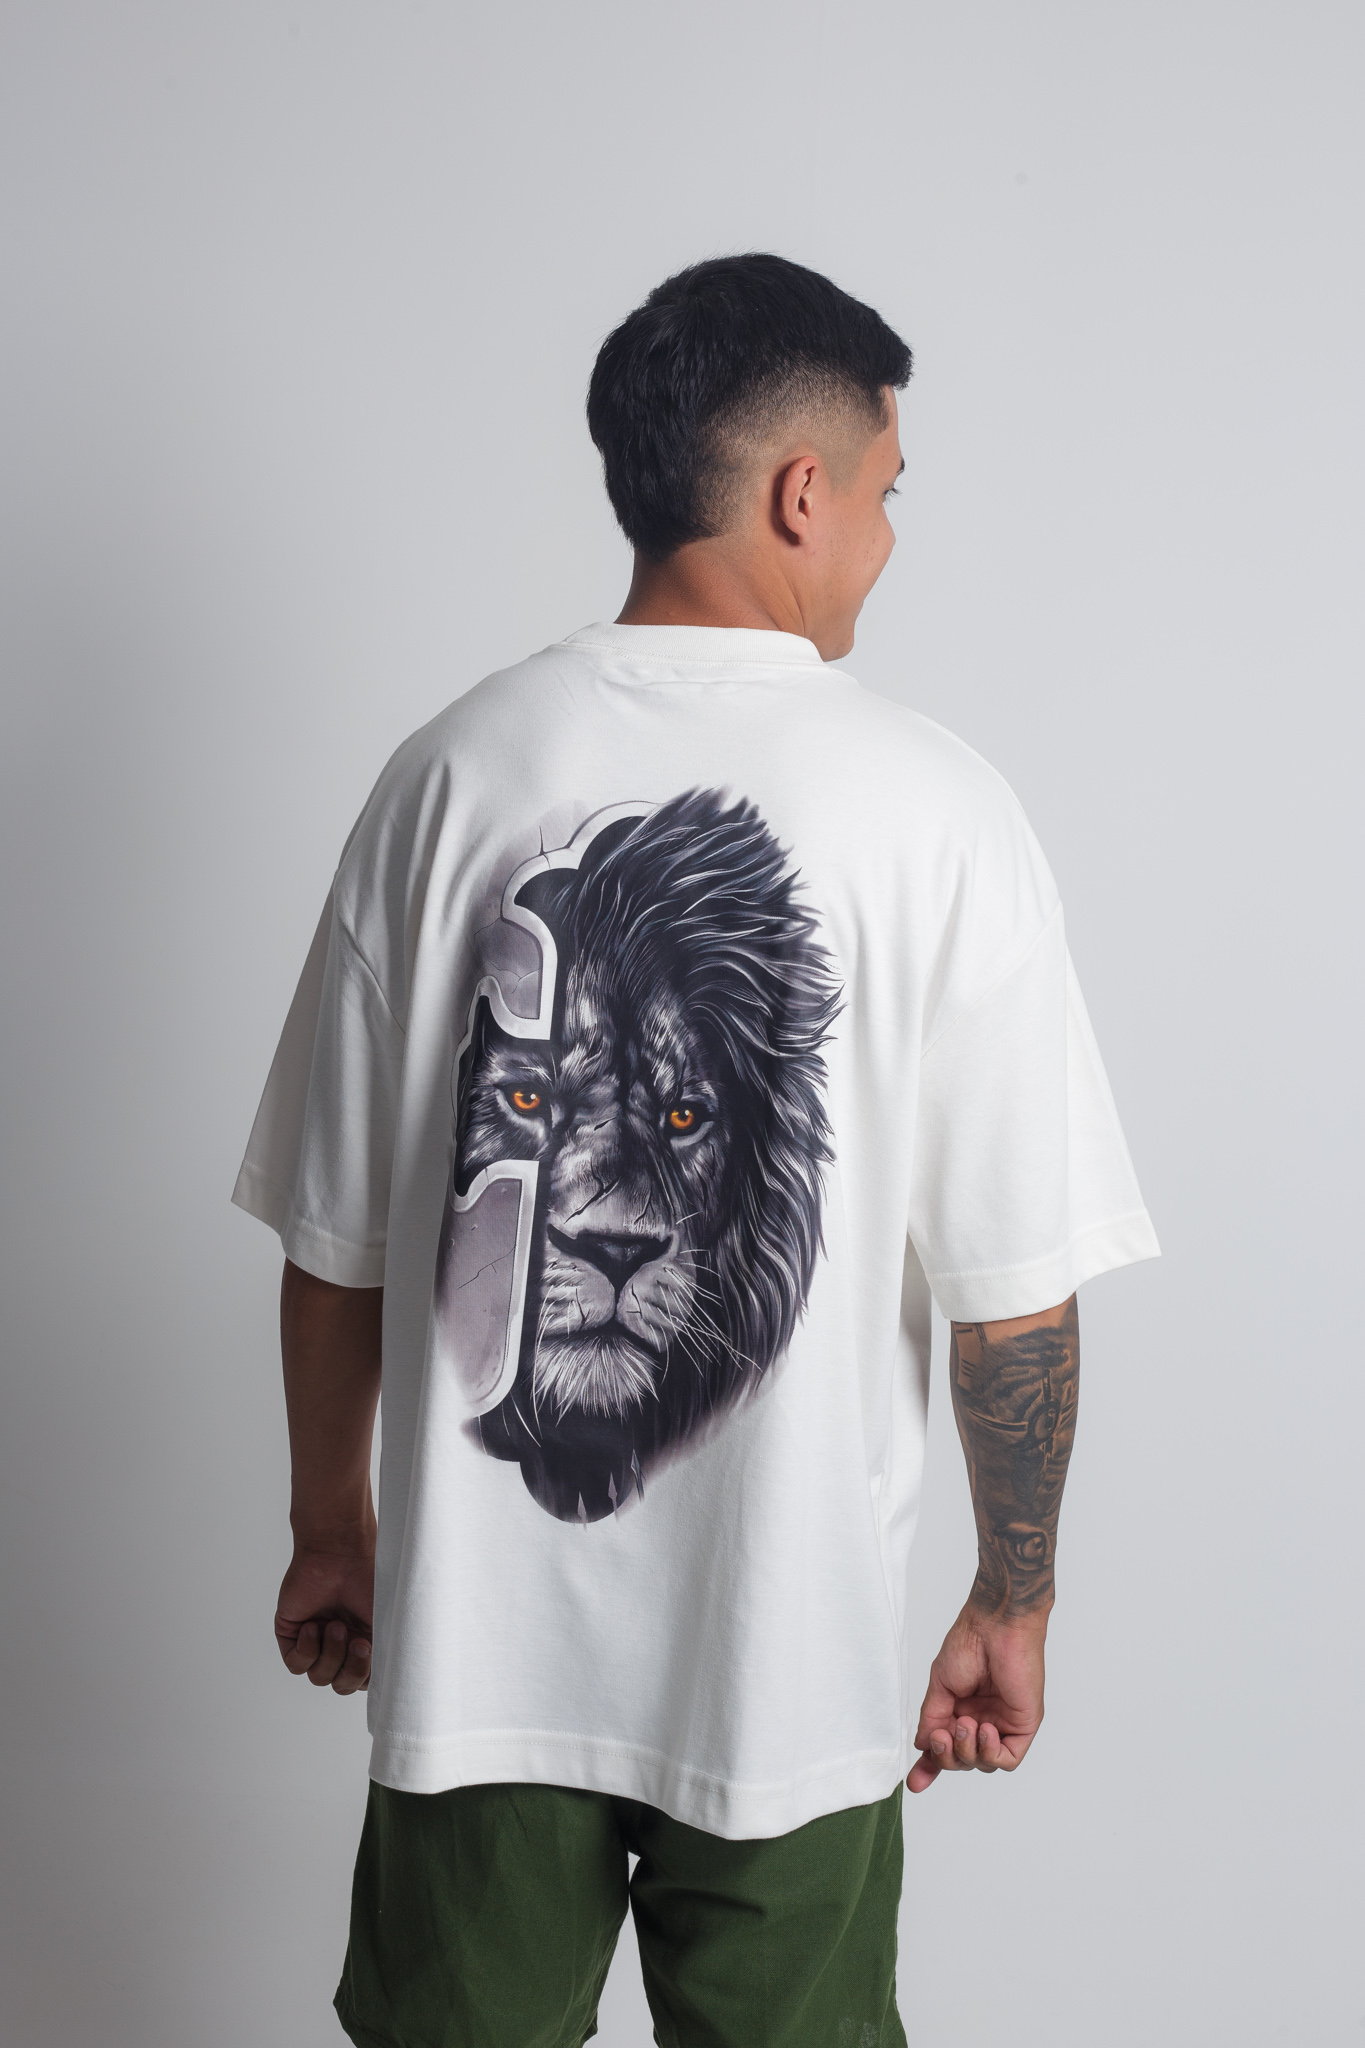
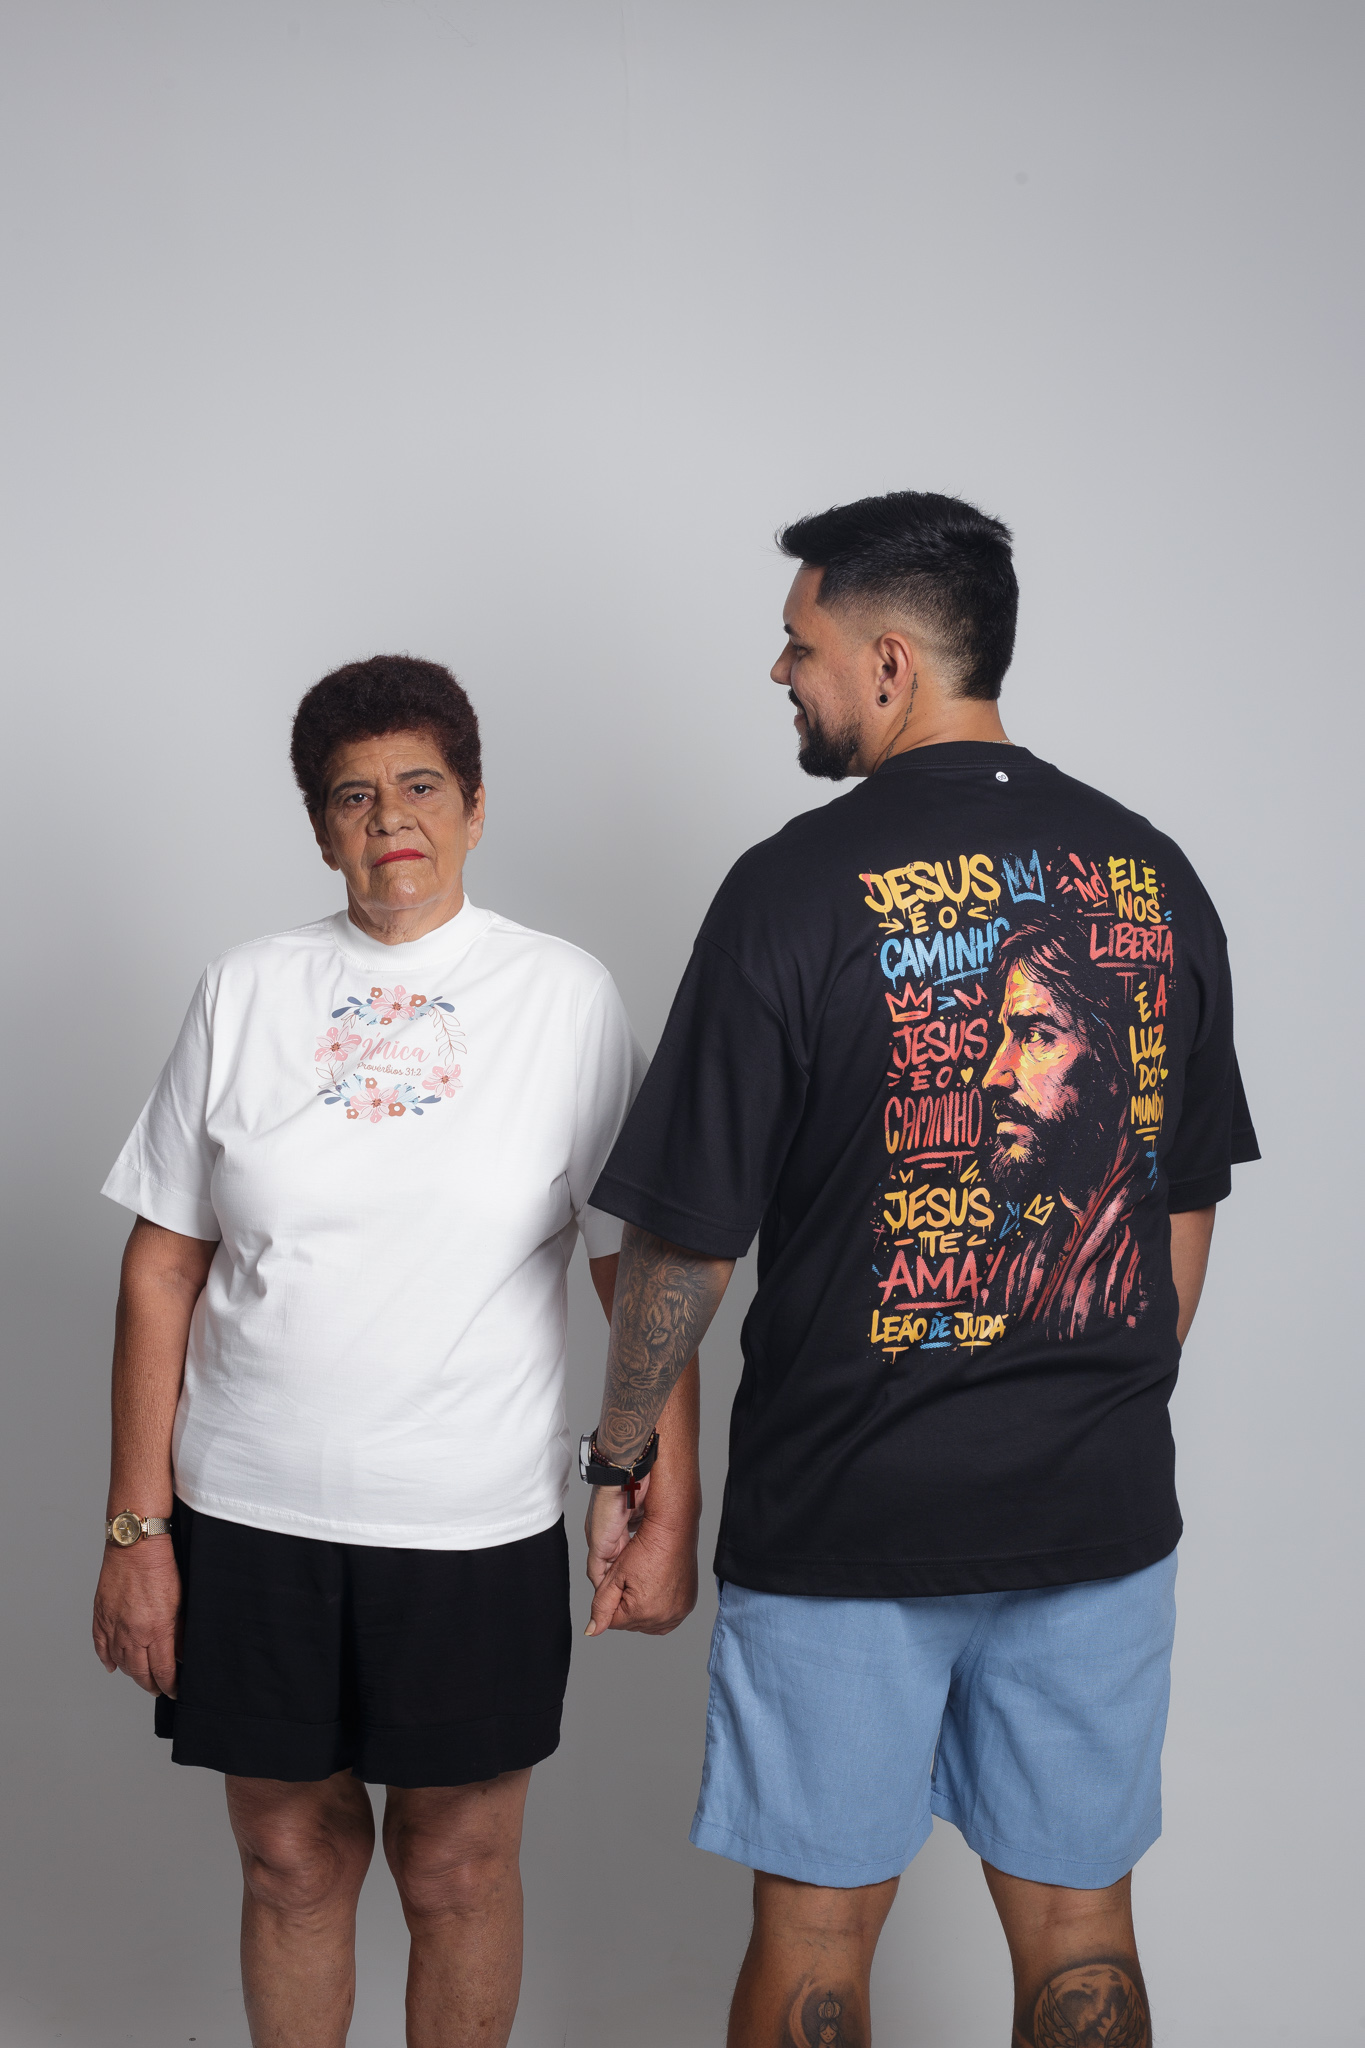
Atualização paginas CONTATOS e PRODUTOS para a versão final

diff --git a/style.css b/style.css
@@ -1,3 +1,7 @@
+i {
+  display: inline-block; /* Garante que ele apareça */
+}
+
 /* --- Reset e Variáveis Globais --- */
 * {
     margin: 0;
@@ -293,45 +297,7 @@ body {
     min-height: 100vh;
 }
 
-/* Container único solicitado */
-.contatos-container {
-    width: 100%;
-    max-width: 400px;
-    margin: 20px;
-    background-color: #ffffff;
-    border-radius: 16px;
-    box-shadow: 0 8px 30px rgba(0, 0, 0, 0.08);
-    padding: 35px 25px;
-    text-align: center;
-    border: 1px solid #eef2f5;
-}
-
-.header-perfil {
-    margin-bottom: 25px;
-}
-
-.avatar-placeholder {
-    width: 80px;
-    height: 80px;
-    background: linear-gradient(135deg, #4f46e5, #06b6d4);
-    border-radius: 50%;
-    margin: 0 auto 15px auto;
-    border: 3px solid #ffffff;
-    box-shadow: 0 4px 10px rgba(0,0,0,0.1);
-}
-
-.titulo {
-    font-size: 24px;
-    font-weight: 700;
-    color: #1e293b;
-    margin-bottom: 6px;
-}
-
-.subtitulo {
-    font-size: 14px;
-    color: #64748b;
-}
-
+/* CONTATOS*/
 .links-grupo {
     display: flex;
     flex-direction: column;
@@ -339,9 +305,9 @@ body {
 }
 
 .btn-link {
-    display: block;
-    text-decoration: none;
+    display: inline;
     padding: 14px;
+    margin: 5px 0;
     border-radius: 10px;
     font-size: 15px;
     font-weight: 600;
@@ -364,6 +330,12 @@ body {
     box-shadow: 0 4px 12px rgba(220, 39, 67, 0.2);
 }
 
+.btn-rota {
+    background-color: #ffffff;
+    color: #000000;
+    box-shadow: 0 4px 12px rgba(0, 0, 0, 0.15);
+}
+
 .btn-tiktok {
     background-color: #010101;
     box-shadow: 0 4px 12px rgba(0, 0, 0, 0.15);
@@ -372,10 +344,4 @@ body {
 .btn-google {
     background-color: #4285F4;
     box-shadow: 0 4px 12px rgba(66, 133, 244, 0.2);
-}
-
-.footer-creditos {
-    margin-top: 25px;
-    font-size: 12px;
-    color: #94a3b8;
 }

diff --git a/paginas/produtos.html b/paginas/produtos.html
@@ -55,16 +55,15 @@
 </style>
 
 <div class="conteudo">
-    <br>
-    <h1>NOSSOS PRODUTOS</h1>
-    <p>Role a página para ver o efeito parallax na imagem abaixo.</p>
+    <h1>FÉ | ESTILO | ATITTTUDE</h1>
+    <p>Coleções completas pensada para quem não abre mão de qualidade e estilo</p>
 </div>
 
-<div class="parallax bg-parallax" style="background-image: url('../imagens/fundos/produtos-parallax.jpg');"></div>
+<div class="parallax bg-parallax" style="background-image: url('../imagens/fundos/produtos-parallax.gif');"></div>
 
 <div class="conteudo">
     <h1>OVERSIZED</h1>
-    <p>Role a página para ver o efeito parallax na imagem abaixo.</p>
+    <p>Estilo urbano, corte amplo e o máximo de conforto. A escolha ideal para quem curte um visual moderno e despojado</p>
 </div>
 
 <div class="parallax" style="background-image: url('../imagens/fundos/oversized-parallax.jpg');">
@@ -75,38 +74,38 @@
 </div>
 
 <div class="conteudo">
-    <h1>CASUAL</h1>
-    <p>O fundo fica fixo enquanto o texto rola por cima, criando profundidade.</p>
+    <h1>MASCULINO</h1>
+    <p>Do básico essencial às principais tendências. Roupas versáteis que combinam praticidade, conforto e elegância</p>
 </div>
 
-<div class="parallax bg-parallax" style="background-image: url('C');">
-     <a href="https://api.whatsapp.com/send?phone=55018996793282&text=Ol%C3%A1%2C%20gostaria%20de%20saber%20sobre%20as%20op%C3%A7%C3%B5es%20de%20*CASUAL*" target="_blank" class="btn btn-primary btn-lg rounded-3 fw-bold d-flex align-items-center justify-content-center mt-3 shadow-sm"
-    class="btn-cta nav-link">VER OPÇÕES CASUAL<i class="bi bi-arrow-right"></i></a>
+<div class="parallax" style="background-image: url('../imagens/fundos/masculino-parallax.jpg');">
+    <div class="container-botao">
+        <a href="https://api.whatsapp.com/send?phone=55018996793282&text=Ol%C3%A1%2C%20gostaria%20de%20saber%20sobre%20as%20op%C3%A7%C3%B5es%20*MASCULINAS*"
+    target="_blank" class="meu-botao";">VER OPÇÕES MASCULINAS<i class="bi bi-arrow-right"></i></a>
+    </div>
 </div>
 
 <div class="conteudo">
-    <h1>FEMININA</h1>
-    <p>Role a página para ver o efeito parallax na imagem abaixo.</p>
-    <a href="https://api.whatsapp.com/send?phone=55018996793282&text=Ol%C3%A1%2C%20gostaria%20de%20saber%20sobre%20as%20op%C3%A7%C3%B5es%20de%20*MODA%20FEMININA*" target="_blank" class="btn btn-primary btn-lg rounded-3 fw-bold d-flex align-items-center justify-content-center mt-3 shadow-sm"
-    class="btn-streetwear">VER OPÇÕES FEMININAS<i class="bi bi-arrow-right"></i></a>
+    <h1>FEMININO</h1>
+    <p>Peças que exaltam a sua força e autenticidade. Design contemporâneo e versatilidade para looks marcantes</p>
 </div>
 
-<div class="parallax bg-parallax" style="background-image: url('caminho-da-sua-imagem3.jpg');"></div>
-
-<div class="conteudo">
-    <h1>ESPORTIVO</h1>
-    <p>O fundo fica fixo enquanto o texto rola por cima, criando profundidade.</p>
-    
-</div>
-
-<div class="parallax bg-parallax" style="background-image: url('caminho-da-sua-imagem3.jpg');">
-    <a href="https://api.whatsapp.com/send?phone=55018996793282&text=Ol%C3%A1%2C%20gostaria%20de%20saber%20sobre%20as%20op%C3%A7%C3%B5es%20de%20*MODA%20ESPORTIVA*" target="_blank" class="btn btn-primary btn-lg rounded-3 fw-bold d-flex align-items-center justify-content-center mt-3 shadow-sm"
-    class="btn-streetwear">VER OPÇÕES ESPORTIVO<i class="bi bi-arrow-right"></i></a>
+<div class="parallax" style="background-image: url('../imagens/fundos/feminino-parallax.jpg');">
+    <div class="container-botao">
+        <a href="https://api.whatsapp.com/send?phone=55018996793282&text=Ol%C3%A1%2C%20gostaria%20de%20saber%20sobre%20as%20op%C3%A7%C3%B5es%20*FEMININAS*"
+    target="_blank" class="meu-botao";">VER OPÇÕES FEMININAS<i class="bi bi-arrow-right"></i></a>
+    </div>
 </div>
 
 <div class="conteudo">
     <h1>NOVIDADES</h1>
-    <p>O fundo fica fixo enquanto o texto rola por cima, criando profundidade.</p>
-    <a href="https://api.whatsapp.com/send?phone=55018996793282&text=Ol%C3%A1%2C%20gostaria%20de%20saber%20sobre%20as%20*NOVIDADES*" target="_blank" class="btn btn-primary btn-lg rounded-3 fw-bold d-flex align-items-center justify-content-center mt-3 shadow-sm" 
-    class="btn-streetwear">CONHECER NOVIDADES<i class="bi bi-arrow-right"></i></a>
+    <p>Fique por dentro de tudo!</p>
 </div>
+
+<div class="parallax" style="background-image: url('../imagens/fundos/novidade-parallax.jpeg');">
+    <div class="container-botao">
+        <a href="https://api.whatsapp.com/send?phone=55018996793282&text=Ol%C3%A1%2C%20gostaria%20de%20saber%20sobre%20as%20*NOVIDADES*"
+    target="_blank" class="meu-botao";">VER NOVIDADES<i class="bi bi-arrow-right"></i></a>
+    </div>
+</div>
+

diff --git a/paginas/contatos.html b/paginas/contatos.html
@@ -1,21 +1,40 @@
+
 <div class="">
     
-    <div class="">
-        <div style="height: 100px;"></div>
-        <h1 class="titulo">Nossos Contatos</h1>
-        <p class="subtitulo">Fale conosco ou acesse nossas redes</p>
+    <div style="margin: auto 7%; color: white;">
+
+        <h1 class="">Horário Atendimento</h1>
+        <p class="">Segunda a Quinta:das 08:00 às 19hrs</p>
+        <p class="">Sexta-feira: das 08:00 às 17hrs</p>
+        <p class="">Sábado: das 09:00 às 15hrs</p>
+        <br>
+        <p class="">Galeria Goulart | Piso 02 - Loja 102</p>
+        <p class="">Av. Manoel Goulart, 174 - Centro</p>
+        <p class="">Presidente Prudente</p>
+        <br>
     </div>
 
-    <div class="links-grupo">
-        <a href="https://wa.me/55018996793282" target="_blank" class="btn-link btn-whatsapp">WhatsApp</a>
-        <a href="https://instagram.com/andradsstore_" target="_blank" class="btn-link btn-instagram">Instagram</a>
-        <a href="https://tiktok.com/" target="_blank" class="btn-link btn-tiktok">TikTok</a>
-        <a href="https://google.com/" target="_blank" class="btn-link btn-google">Google</a>
-        <a href="https://google.com/" target="_blank" class="btn-link btn-google">Avalie nossa loja</a>
-    </div>
-
-    <div class="footer-creditos">
-        © 2026 Todos os direitos reservados.
+    <div class="links-grupo" style="margin: auto 15%;">
+        <a href="https://maps.app.goo.gl/3YEnYvbi4XL6VHLw7" target="_blank" class="btn-link btn-rota text-decoration-none">
+            <img src="/imagens/icon/route-solid-full.svg" alt="" width="36" height="36">
+        Como Chegar?</a>
+        
+        <a href="https://wa.me/55018996793282" target="_blank" class="btn-link btn-whatsapp text-decoration-none">
+            <img src="/imagens/icon/whatsapp-brands-solid-full.svg" alt="" width="36" height="36">
+        WhatsApp</a>
+        
+        <a href="https://instagram.com/andradsstore_" target="_blank" class="btn-link btn-instagram text-decoration-none">
+            <img src="/imagens/icon/instagram-brands-solid-full.svg" alt="" width="36" height="36">
+        Instagram</a>
+        
+        <a href="https://tiktok.com/" target="_blank" class="btn-link btn-tiktok text-decoration-none">
+            <img src="/imagens/icon/tiktok-brands-solid-full.svg" alt="" width="36" height="36">
+        TikTok</a>
+        
+        <a href="https://g.page/r/CZkga0jv-SaGECE/review" target="_blank" class="btn-link btn-google text-decoration-none">
+            <img src="/imagens/icon/google-brands-solid-full.svg" alt="" width="36" height="36">
+        Avalie nossa loja</a>
+        
     </div>
 
 </div>

diff --git a/index.html b/index.html
@@ -3,14 +3,14 @@
 <head>
     <meta charset="UTF-8">
     <meta name="viewport" content="width=device-width, initial-scale=1.0">
-    <link rel="manifest" href="./manifest.json">
     
     <title>Andrads Store | Streetwear Cristão</title>
     <link rel="stylesheet" href="style.css">
-    <link rel="stylesheet" href="https://cdn.jsdelivr.net/npm/bootstrap-icons@1.11.3/font/bootstrap-icons.min.css">
+    
     <link href="https://fonts.googleapis.com/css2?family=Montserrat:wght@300;600;800;900&display=swap" rel="stylesheet">
-
-    <script src="./app.js"></script>
+    
+    <link href="https://cdn.jsdelivr.net/npm/bootstrap@5.3.8/dist/css/bootstrap.min.css" rel="stylesheet" integrity="sha384-sRIl4kxILFvY47J16cr9ZwB07vP4J8+LH7qKQnuqkuIAvNWLzeN8tE5YBujZqJLB" crossorigin="anonymous">
+=
 
     <style>
         /* Centraliza o "celular" no meio da tela do computador */
@@ -49,8 +49,8 @@
 
         <!-- 1. Div / Cabeçalho -->
         <header>
-            <nav class="nav-container m-0 p-0">
-                <div class="logo">
+            <nav class="nav-container">
+                <div class="logo" style=" margin: 2px; padding: 2px ;">
                     <img src="imagens/id_visual/andrads_store_transp.svg" style="max-height: 50px;">
                 </div>
                 
@@ -62,13 +62,15 @@
 
                 <!-- Links com data-page para controle do JS -->
                 <ul class="nav-menu">
-                    <li><a href="#" data-page="inicio" class="nav-link active">Home</a></li>
+                    <li><a href="#" data-page="inicio" class="nav-link active">Inicio</a></li>
                     <li><a href="#" data-page="produtos" class="nav-link">Produtos</a></li>
                     <li><a href="#" data-page="contatos" class="nav-link">Contato</a></li>
                     <li><a href="#" data-page="sobre" class="nav-link">Sobre Nós</a></li>
                 </ul>
             </nav>
         </header>
+
+        <div style="height: 110px; background-color: black;"></div>
 
         <!-- 2. Div / Conteúdo Central Dinâmico -->
         <main id="content" style="background-color: black;">
@@ -77,7 +79,7 @@
 
         <!-- 3. Div / Rodapé -->
         <footer>
-            <p style="color: white; text-decoration: dotted;">&copy; 2026 ANDRADS STORE & AGENCIA CARBONU. Todos os direitos reservados.</p>
+            <p style="color: white; text-decoration: dotted;">&copy; 2026 ANDRADS STORE & AGENCIA CARBONU.<br>Todos os direitos reservados.</p>
         </footer>
 
     </div>

diff --git a/script.js b/script.js
@@ -64,5 +64,5 @@ document.addEventListener('DOMContentLoaded', () => {
     });
 
     // --- 4. Carrega a página inicial por padrão ao abrir o site ---
-    loadPage('contatos');
+    loadPage('inicio');
 });